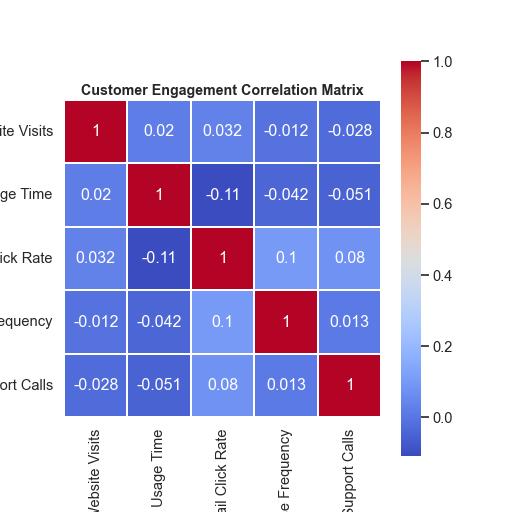
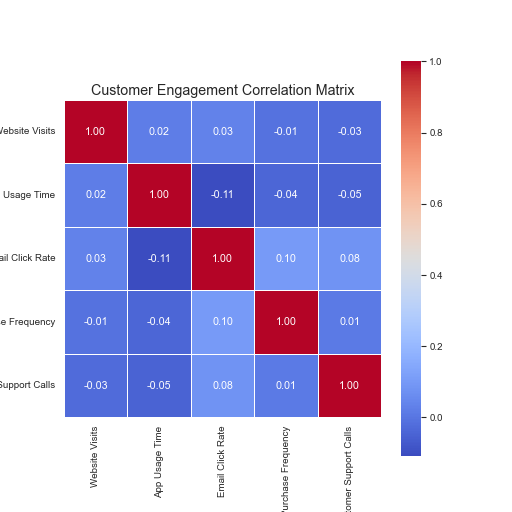
Regenerated seaborn heatmap for validator

diff --git a/chart.py b/chart.py
@@ -3,8 +3,8 @@ import matplotlib.pyplot as plt
 import pandas as pd
 import numpy as np
 
-sns.set_style("whitegrid")
-sns.set_context("talk")
+# Force seaborn theme
+sns.set_theme(style="white")
 
 np.random.seed(42)
 
@@ -17,21 +17,23 @@ data = {
 }
 
 df = pd.DataFrame(data)
-corr_matrix = df.corr()
+corr = df.corr()
 
-# CRITICAL SETTINGS FOR 512x512
 plt.figure(figsize=(8, 8))
 
-sns.heatmap(
-    corr_matrix,
+# EXPLICIT seaborn heatmap
+ax = sns.heatmap(
+    corr,
     annot=True,
+    fmt=".2f",
     cmap="coolwarm",
-    linewidths=0.5,
-    square=True
+    linewidths=1,
+    square=True,
+    cbar=True
 )
 
-plt.title("Customer Engagement Correlation Matrix", fontsize=16, fontweight="bold")
+plt.title("Customer Engagement Correlation Matrix", fontsize=16)
 
-# IMPORTANT: No bbox_inches
+# EXACT 512x512 export
 plt.savefig("chart.png", dpi=64)
 plt.close()
